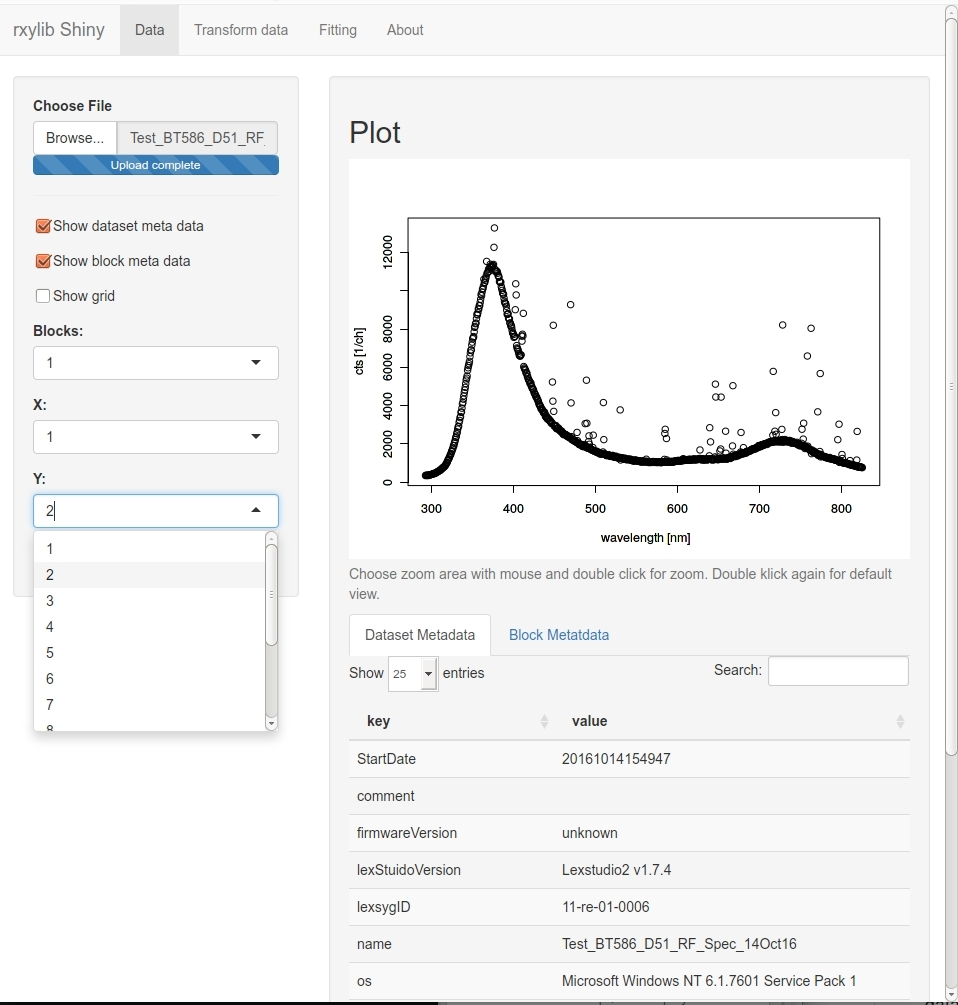
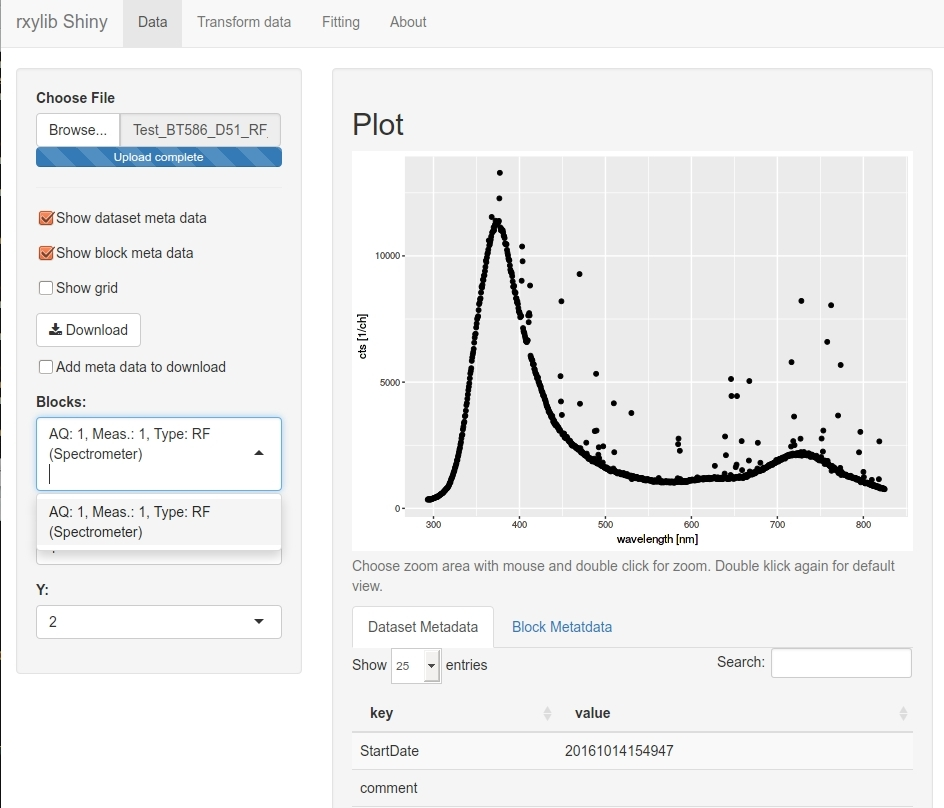
extend README

diff --git a/README.md b/README.md
@@ -5,6 +5,7 @@
 ## Impressions
 
 ![](img/screenshot.jpg)
+![](img/screenshot2.jpg)
 
 ## Installation and usage
 
@@ -33,7 +34,7 @@ rxylibShiny::run_rxylib()
 
 ## To Do
 
-* Add download of converted data with decision between with or without metadata
+* ~~Add download of converted data with decision between with or without metadata ~~
 * Add transformations (~~invert, log, log-log, wavelength -> energy (and vice versa)~~,...)
 * Add fitting function
 
